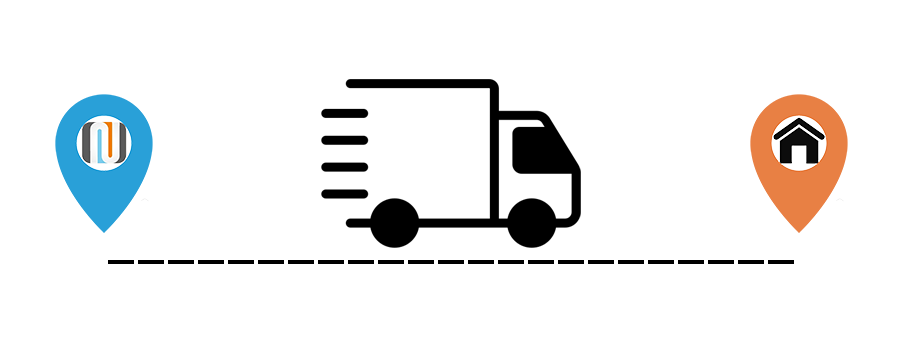
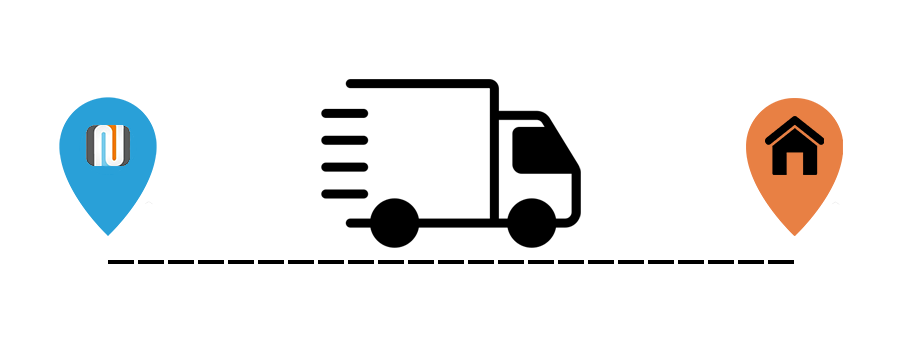
se borra el fondo a las tarjetas en productos

diff --git a/src/app/productos/page.tsx b/src/app/productos/page.tsx
@@ -18,7 +18,7 @@ const page = () => {
 
         <section className={`${montserrat.className} -mt-10 mb-10 bg-gray-100 w-full py-10 rounded-md shadow-inner`}>
             <ul className='grid grid-cols-4 gap-5 justify-items-center'>
-                <li className='bg-white rounded-md justify-items-center text-center p-[15px] h-[300px] max-w-[250px] transition duration-300 ease-in-out scale-100 hover:scale-110'>
+                <li className=' justify-items-center text-center p-[15px] h-[300px] max-w-[250px] transition duration-300 ease-in-out scale-100 hover:scale-110'>
                     <img 
                         src="https://diariosanrafael.com.ar/wp-content/uploads/2022/07/cg-led-para-alumbrado-publico.jpg" 
                         alt="imagen" 
@@ -27,11 +27,11 @@ const page = () => {
                     <p className='mt-[10px] font-bold text-[18px]'>
                         ILUMINACIÓN
                         <br />
-                        PÚBLICA/INSUTRIAL
+                        PÚBLICA/INDUSTRIAL
                     </p>
                 </li>
 
-                <li className='bg-white rounded-md justify-items-center text-center p-[15px] h-[300px] max-w-[250px] transition duration-300 ease-in-out scale-100 hover:scale-110'>
+                <li className='justify-items-center text-center p-[15px] h-[300px] max-w-[250px] transition duration-300 ease-in-out scale-100 hover:scale-110'>
                     <img 
                         src="https://sledcolombia.org/wp-content/uploads/2015/02/luz-empotrada-para-la-cocina.jpg" 
                         alt="imagen" 
@@ -43,7 +43,7 @@ const page = () => {
                     </p>
                 </li>
 
-                <li className='bg-white rounded-md justify-items-center text-center p-[15px] h-[300px] max-w-[250px] transition duration-300 ease-in-out scale-100 hover:scale-110'>
+                <li className='justify-items-center text-center p-[15px] h-[300px] max-w-[250px] transition duration-300 ease-in-out scale-100 hover:scale-110'>
                     <img 
                         src="/materiales.png" 
                         alt="imagen" 
@@ -54,7 +54,7 @@ const page = () => {
                     </p>
                 </li>
 
-                <li className='bg-white rounded-md justify-items-center text-center p-[15px] h-[300px] max-w-[250px] transition duration-300 ease-in-out scale-100 hover:scale-110'>
+                <li className='justify-items-center text-center p-[15px] h-[300px] max-w-[250px] transition duration-300 ease-in-out scale-100 hover:scale-110'>
                     <img 
                         src="https://dcdn-us.mitiendanube.com/stores/005/900/662/products/d_757190-mla79589157545_092024-o-e7cdf74d108dca792117432417611564-1024-1024.webp" 
                         alt="imagen"

diff --git a/src/app/home/page.tsx b/src/app/home/page.tsx
@@ -106,6 +106,18 @@ export default function page() {
             clientes productos originales y un servicio de primer nivel.
           </p>
         </div>
+
+        <div className="flex justify-center items-center px-40 bg-sky-100" id="jadever">
+          <div className="relative w-1/2 flex justify-center items-center overflow-hidden before:content-[''] before:absolute before:left-0 before:top-[5%] before:w-full before:h-[90%] before:bg-[url('/local.png')] before:bg-center before:blur-[1px] before:bg-cover  before:rounded-xl">
+            <h1 className="text-[40px] text-black relative z-10 bg-white/80 px-6 rounded-full ">
+              Jadever Point
+            </h1>
+          </div>
+          <p className="text-[20px] w-1/2 ml-5">
+            Somos el primer punto exclusivo de la marca Jadever en el país, 
+            ofreciendo productos con garantía oficial y respaldo internacional.
+          </p>
+        </div>
       </section>
     </>
   );

diff --git a/src/app/components/FooterApp.tsx b/src/app/components/FooterApp.tsx
@@ -51,8 +51,8 @@ const FooterApp = () => {
       <div className="text-right">
         <div className="text-[18px] font-semibold">Locales</div>
         <div>
-          <h5>San Juan 1171, Tucumán</h5>
-          <h5>Marco Avellaneda 413, Tucumán</h5>
+          <h5>San Juan 1171, SMT</h5>
+          <h5>Marco Avellaneda 413, SMT</h5>
         </div>
       </div>
     </footer>

diff --git a/src/app/components/CarruselApp.tsx b/src/app/components/CarruselApp.tsx
@@ -25,7 +25,7 @@ const CarruselApp = () => {
       <img
         src={Imagenes[indiceActual]}
         alt={`Imagen ${indiceActual}`}
-        className={`w-full max-h-[295px] object-cover transition-opacity duration-500 ${
+        className={`w-full object-cover transition-opacity duration-500 ${
           fade ? "opacity-100" : "opacity-0"
         }`}
       />

diff --git a/src/app/data/ImgCarrusel.js b/src/app/data/ImgCarrusel.js
@@ -1,7 +1,8 @@
 const Imagenes = [
     "https://ddkjx5kezodfx.cloudfront.net/Weyop/BP/Store/Slider/1751896422_U0VNQU5BIERFTCBFTEVDVFJJQ0lTVEE=.png",
     "/carrusel1.jpg",
-    "/carrusel3.jpg"
+    "/carrusel3.jpg",
+    "/carrusel4.png",
 ]
 
 export default (Imagenes);
